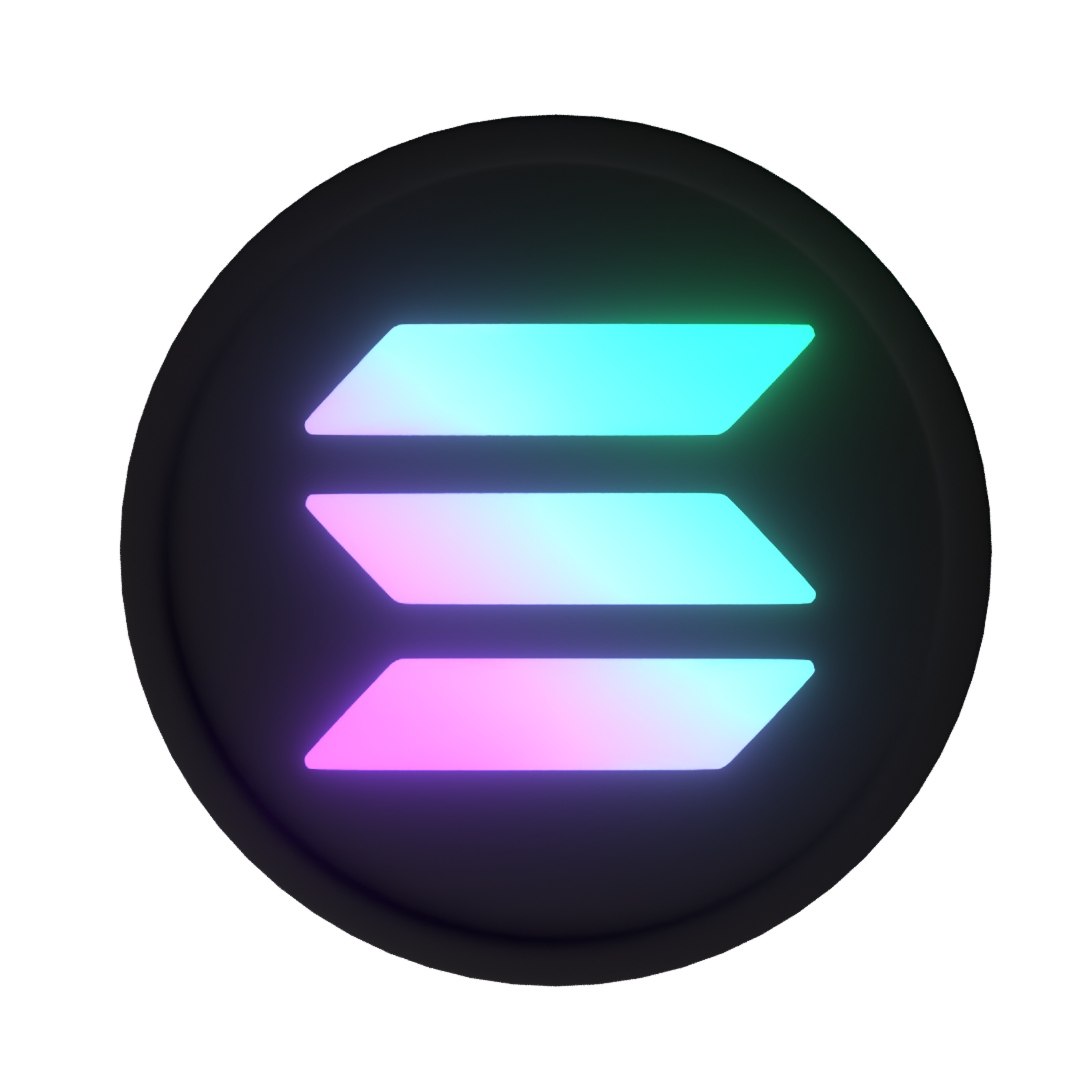
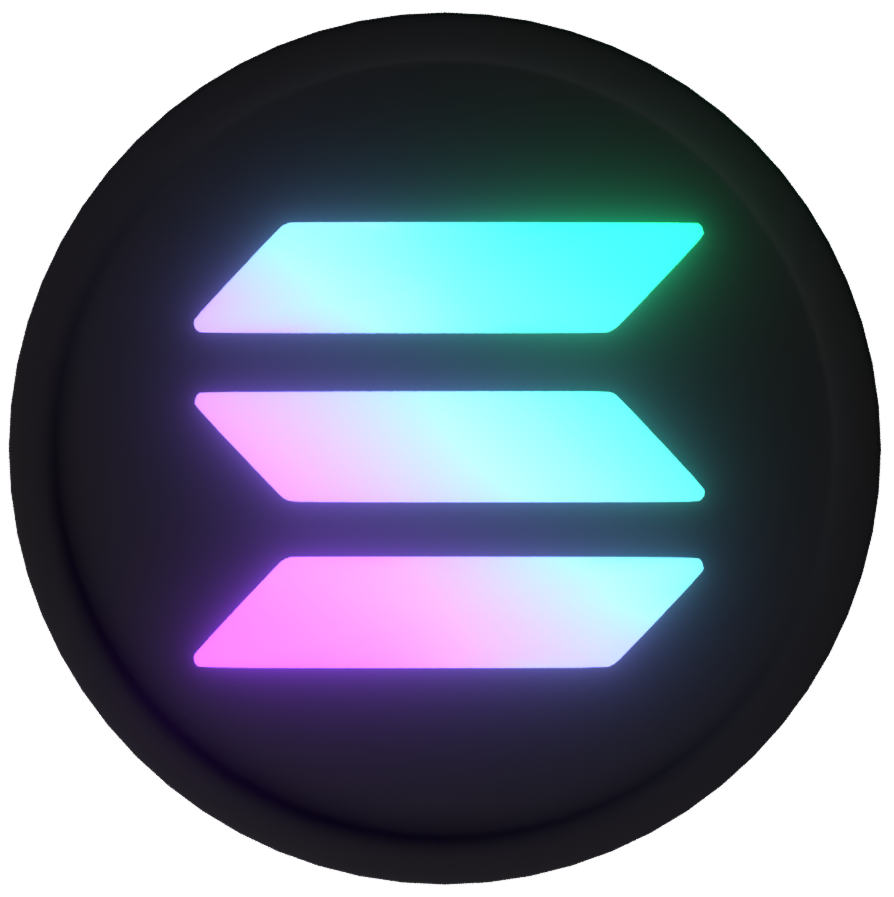
Restructure rewards page: section headers + new Solana coin
- Page title: REWARDS → REWARDS LOG
- Tab label: Rewards → Rewards Log
- Remove 'Total Rewards' sublabel from inside boxes
- Add 'Total Rewards' section header above the totals strip
- Add 'Tournament Rewards' section header above the card grid
- Section headers: Inter 13px, 800 weight, uppercase, gray, 1px letter-spacing
- Replace Solana coin image with updated version

diff --git a/public/index.html b/public/index.html
@@ -230,12 +230,16 @@
       letter-spacing: 0.8px;
     }
 
-    .total-box .total-sublabel {
+    /* ── Section headers ──────────────────── */
+
+    .section-title {
       font-family: 'Inter', sans-serif;
-      font-size: 10px;
-      font-weight: 500;
-      color: #aaa;
-      margin-top: 1px;
+      font-size: 13px;
+      font-weight: 800;
+      color: #888;
+      text-transform: uppercase;
+      letter-spacing: 1px;
+      padding: 0 24px 10px;
     }
 
     /* ── Card grid ────────────────────────── */
@@ -328,6 +332,7 @@
     }
 
     @media (max-width: 700px) {
+      .section-title { padding: 0 16px 8px; }
       .totals-strip { padding: 0 16px 16px; gap: 10px; }
       .total-box { min-width: 150px; padding: 10px 12px 10px 10px; }
       .total-coin { width: 44px; height: 44px; }
@@ -359,15 +364,21 @@
 
     <div class="rewards-panel">
       <div class="page-header">
-        <span class="page-title">REWARDS</span>
+        <span class="page-title">REWARDS LOG</span>
         <div class="tabs">
-          <button class="tab active" id="tabRewards" onclick="switchTab('rewards')">Rewards</button>
+          <button class="tab active" id="tabRewards" onclick="switchTab('rewards')">Rewards Log</button>
           <button class="tab" id="tabBattle" onclick="switchTab('battle')">Battle Log</button>
         </div>
       </div>
 
       <div id="rewardsTab">
-        <div id="totalsStrip" class="totals-strip" style="display:none"></div>
+        <div id="totalRewardsSection" style="display:none">
+          <div class="section-title">Total Rewards</div>
+          <div id="totalsStrip" class="totals-strip"></div>
+        </div>
+        <div id="tournamentRewardsSection" style="display:none">
+          <div class="section-title">Tournament Rewards</div>
+        </div>
         <div id="cardGrid"></div>
       </div>
 
@@ -492,12 +503,13 @@
 
     function renderTotals(totals) {
       const strip = document.getElementById('totalsStrip');
+      const section = document.getElementById('totalRewardsSection');
 
       // Filter out zero values
       const nonZero = totals.filter(t => Number(t.amount_parsed) > 0);
 
       if (!nonZero.length) {
-        strip.style.display = 'none';
+        section.style.display = 'none';
         return;
       }
 
@@ -514,20 +526,22 @@
           <div class="total-text">
             <span class="total-value">${formatNumber(t.amount_parsed)}</span>
             <span class="total-label">${escHtml(t.token_symbol || 'Unknown')}</span>
-            <span class="total-sublabel">Total Rewards</span>
           </div>
         </div>
       `).join('');
 
-      strip.style.display = '';
+      section.style.display = '';
     }
 
     // ── Render cards ───────────────────────────
     function renderCards(tournaments) {
+      const tournSection = document.getElementById('tournamentRewardsSection');
       if (!tournaments || !tournaments.length) {
         document.getElementById('cardGrid').innerHTML = '<div class="empty">No tournament rewards found.</div>';
+        tournSection.style.display = 'none';
         return;
       }
+      tournSection.style.display = '';
 
       const html = `<div class="card-grid">
         ${tournaments.map(t => {
